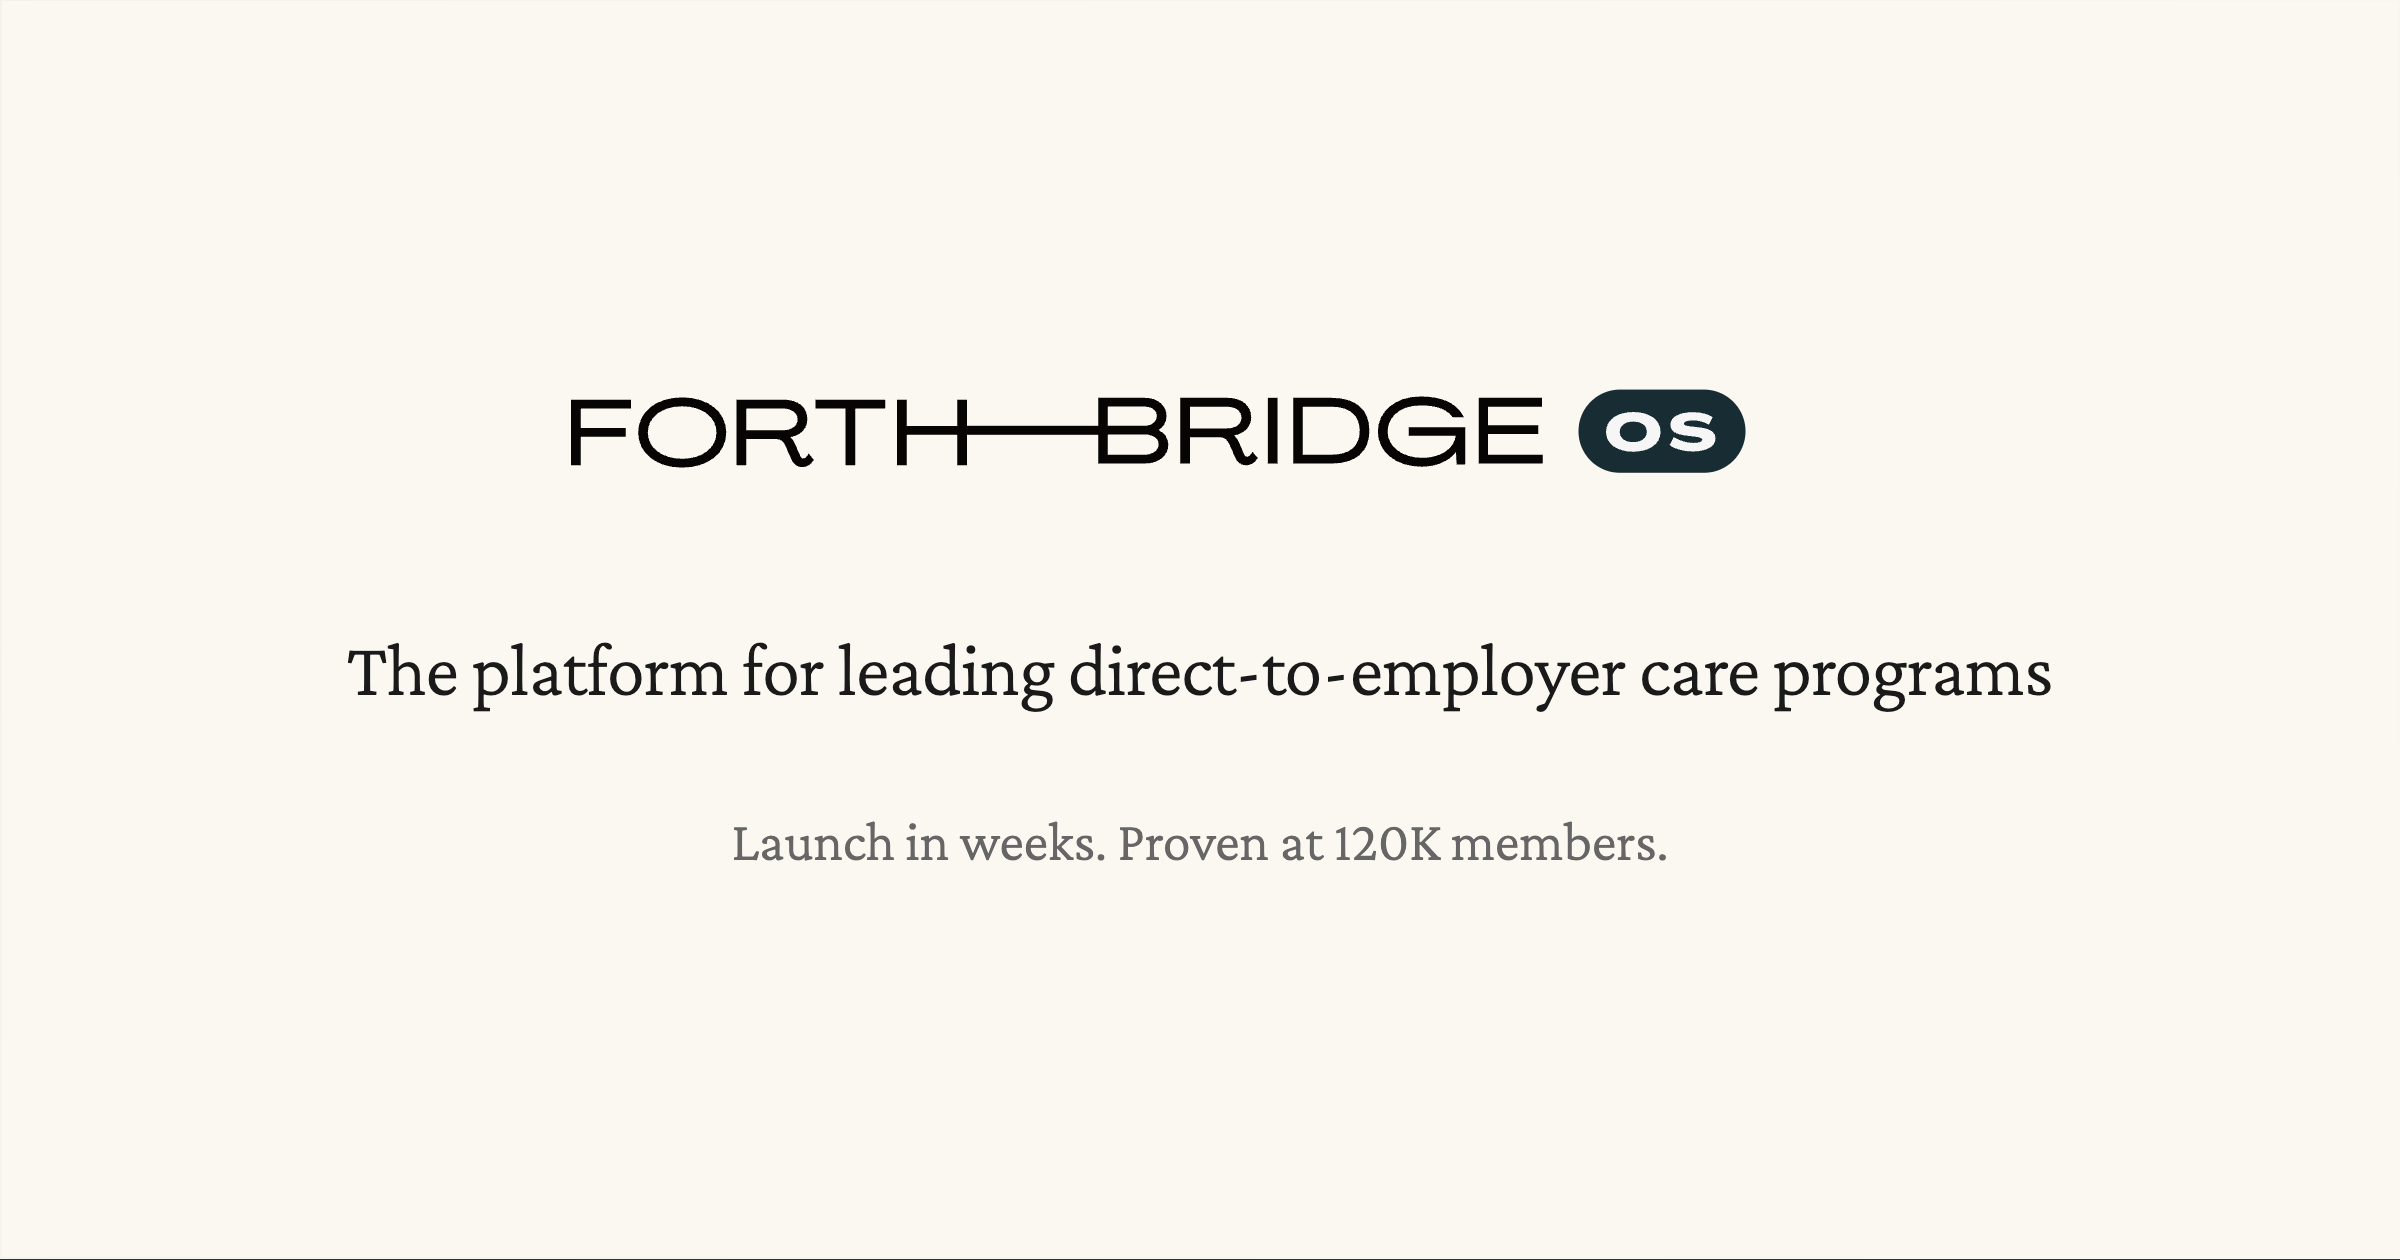
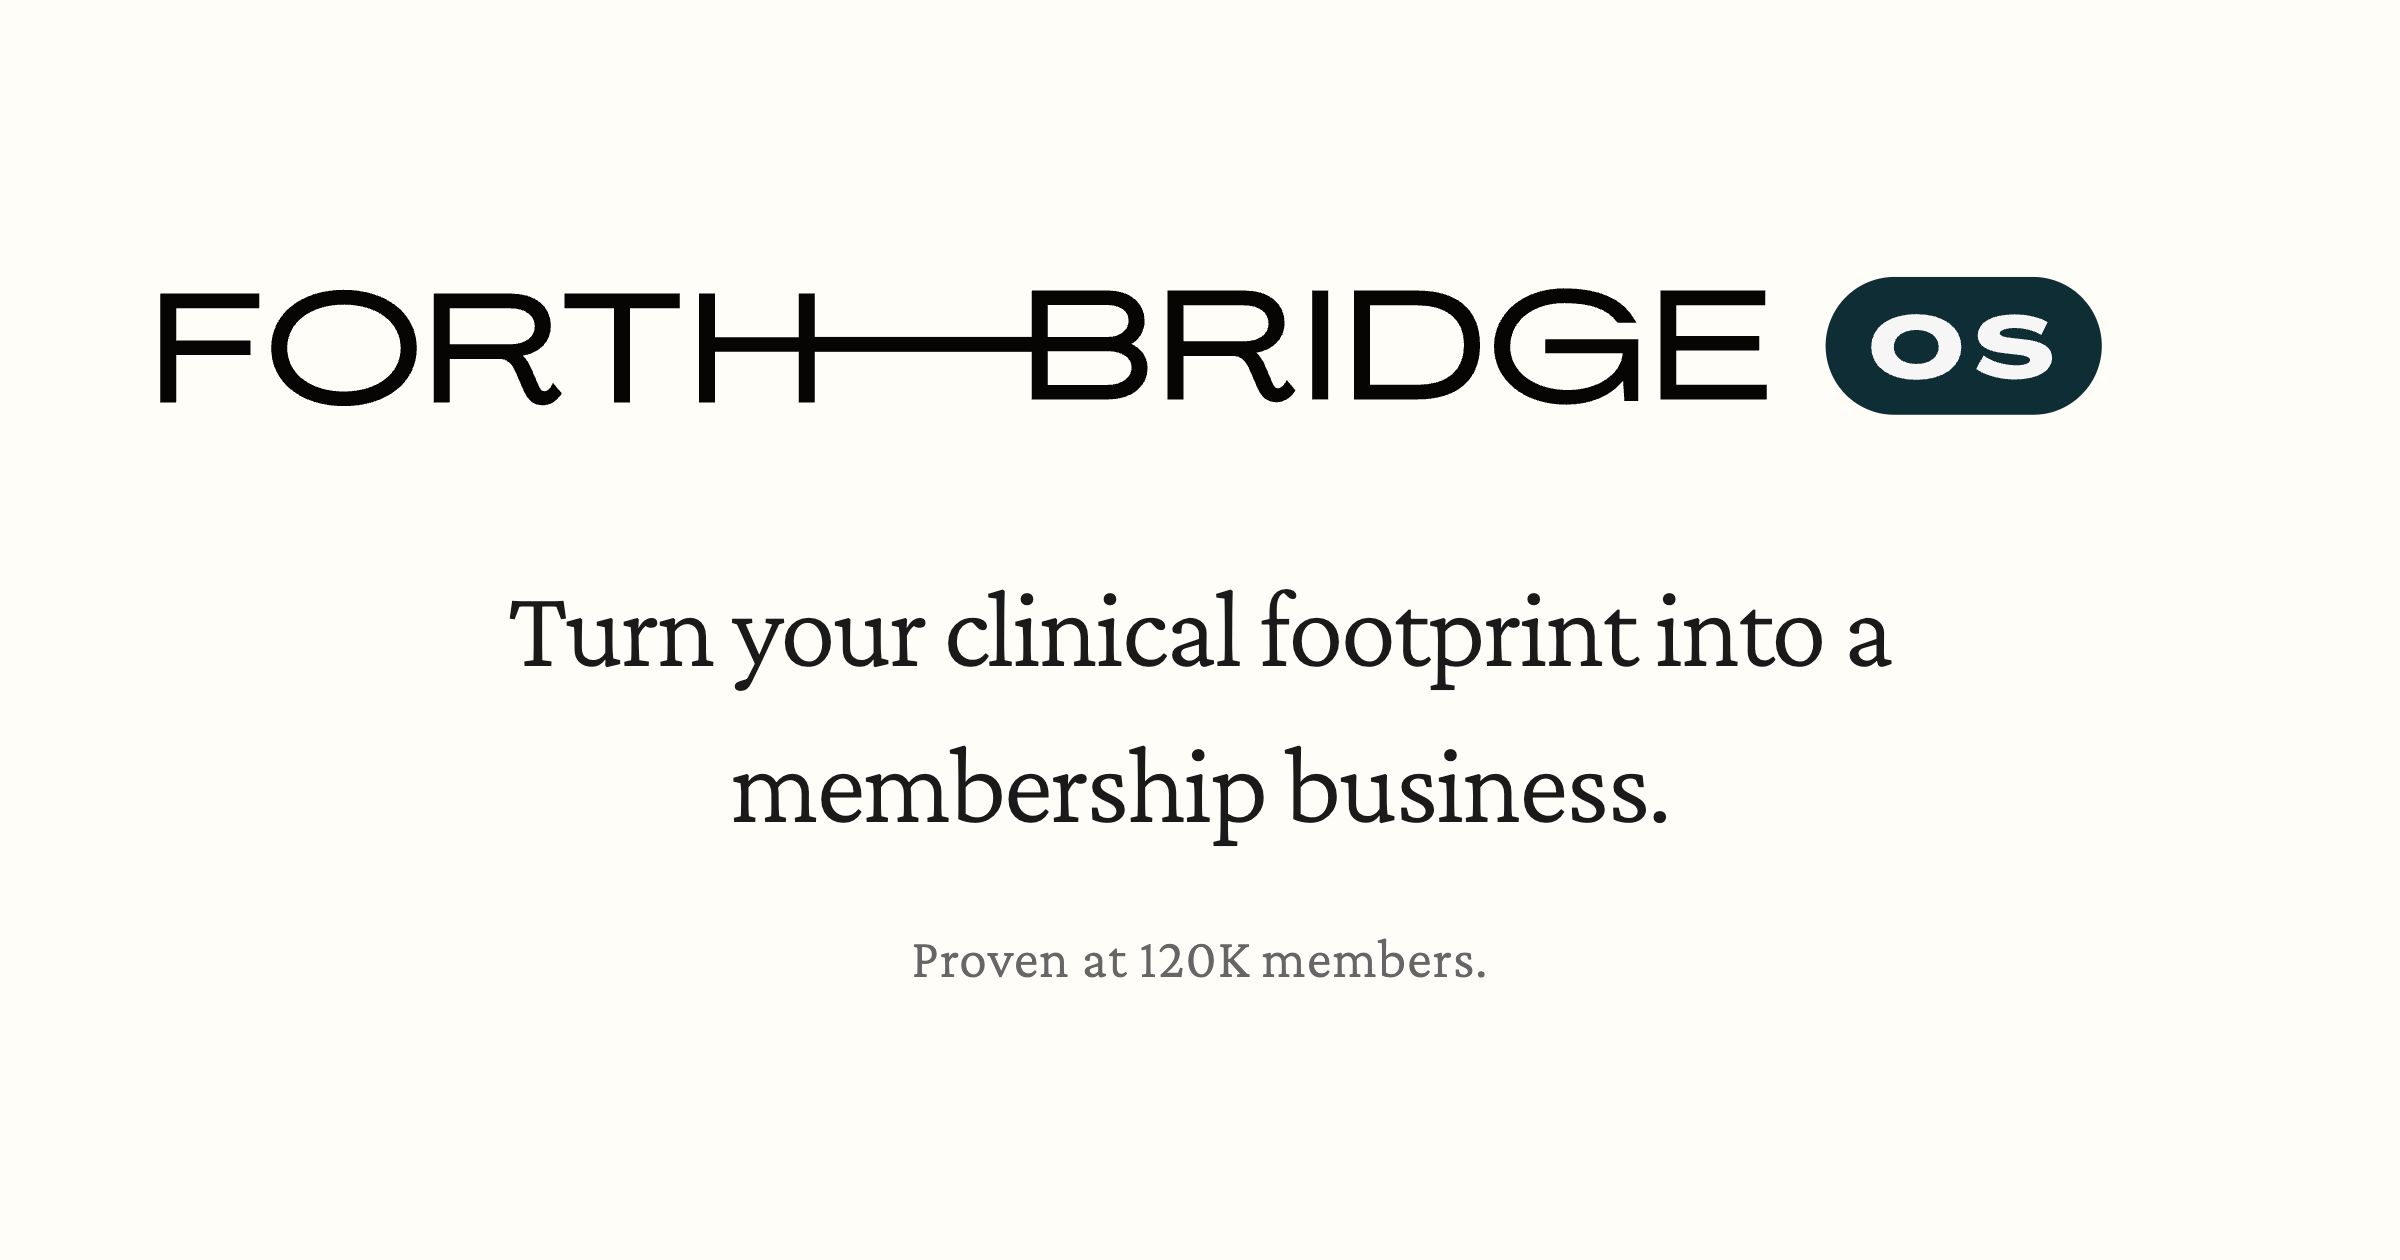
Add OG image template for screenshot generation
🤖 Generated with [Claude Code](https://claude.com/claude-code)

diff --git a/og-template.html b/og-template.html
@@ -1,0 +1,79 @@
+<!DOCTYPE html>
+<html lang="en">
+<head>
+    <meta charset="UTF-8">
+    <title>OG Image Template - 1200x630</title>
+    <link rel="preconnect" href="https://fonts.googleapis.com">
+    <link rel="preconnect" href="https://fonts.gstatic.com" crossorigin>
+    <link href="https://fonts.googleapis.com/css2?family=Crimson+Pro:wght@300;400;500&display=swap" rel="stylesheet">
+    <style>
+        * {
+            margin: 0;
+            padding: 0;
+            box-sizing: border-box;
+        }
+
+        body {
+            font-family: 'Crimson Pro', Georgia, serif;
+            background: #888;
+            padding: 20px;
+        }
+
+        .og-container {
+            width: 1200px;
+            height: 630px;
+            background: #fffdf7;
+            display: flex;
+            flex-direction: column;
+            align-items: center;
+            justify-content: center;
+            padding: 80px;
+            text-align: center;
+            /* Remove this border before screenshotting */
+            outline: 2px dashed red;
+        }
+
+        .logo {
+            margin-bottom: 60px;
+            width: 100%;
+            display: flex;
+            justify-content: center;
+        }
+
+        .logo img {
+            width: 100%;
+            height: auto;
+        }
+
+        h1 {
+            font-size: 56px;
+            font-weight: 300;
+            line-height: 1.4;
+            color: #1a1a1a;
+            letter-spacing: -0.02em;
+            margin-bottom: 32px;
+            max-width: 900px;
+        }
+
+        p {
+            font-size: 28px;
+            font-weight: 300;
+            color: #666;
+            letter-spacing: 0.02em;
+        }
+    </style>
+</head>
+<body>
+    <div class="og-container" id="capture">
+        <div class="logo">
+            <img src="/assets/ForthbridgeOSLogo.svg" alt="Forthbridge">
+        </div>
+        <h1>Turn your clinical footprint into a membership business.</h1>
+        <p>Proven at 120K members.</p>
+    </div>
+
+    <p style="color: white; margin-top: 20px; font-size: 14px;">
+        Right-click the box above → Inspect → Right-click element → "Capture node screenshot"
+    </p>
+</body>
+</html>
